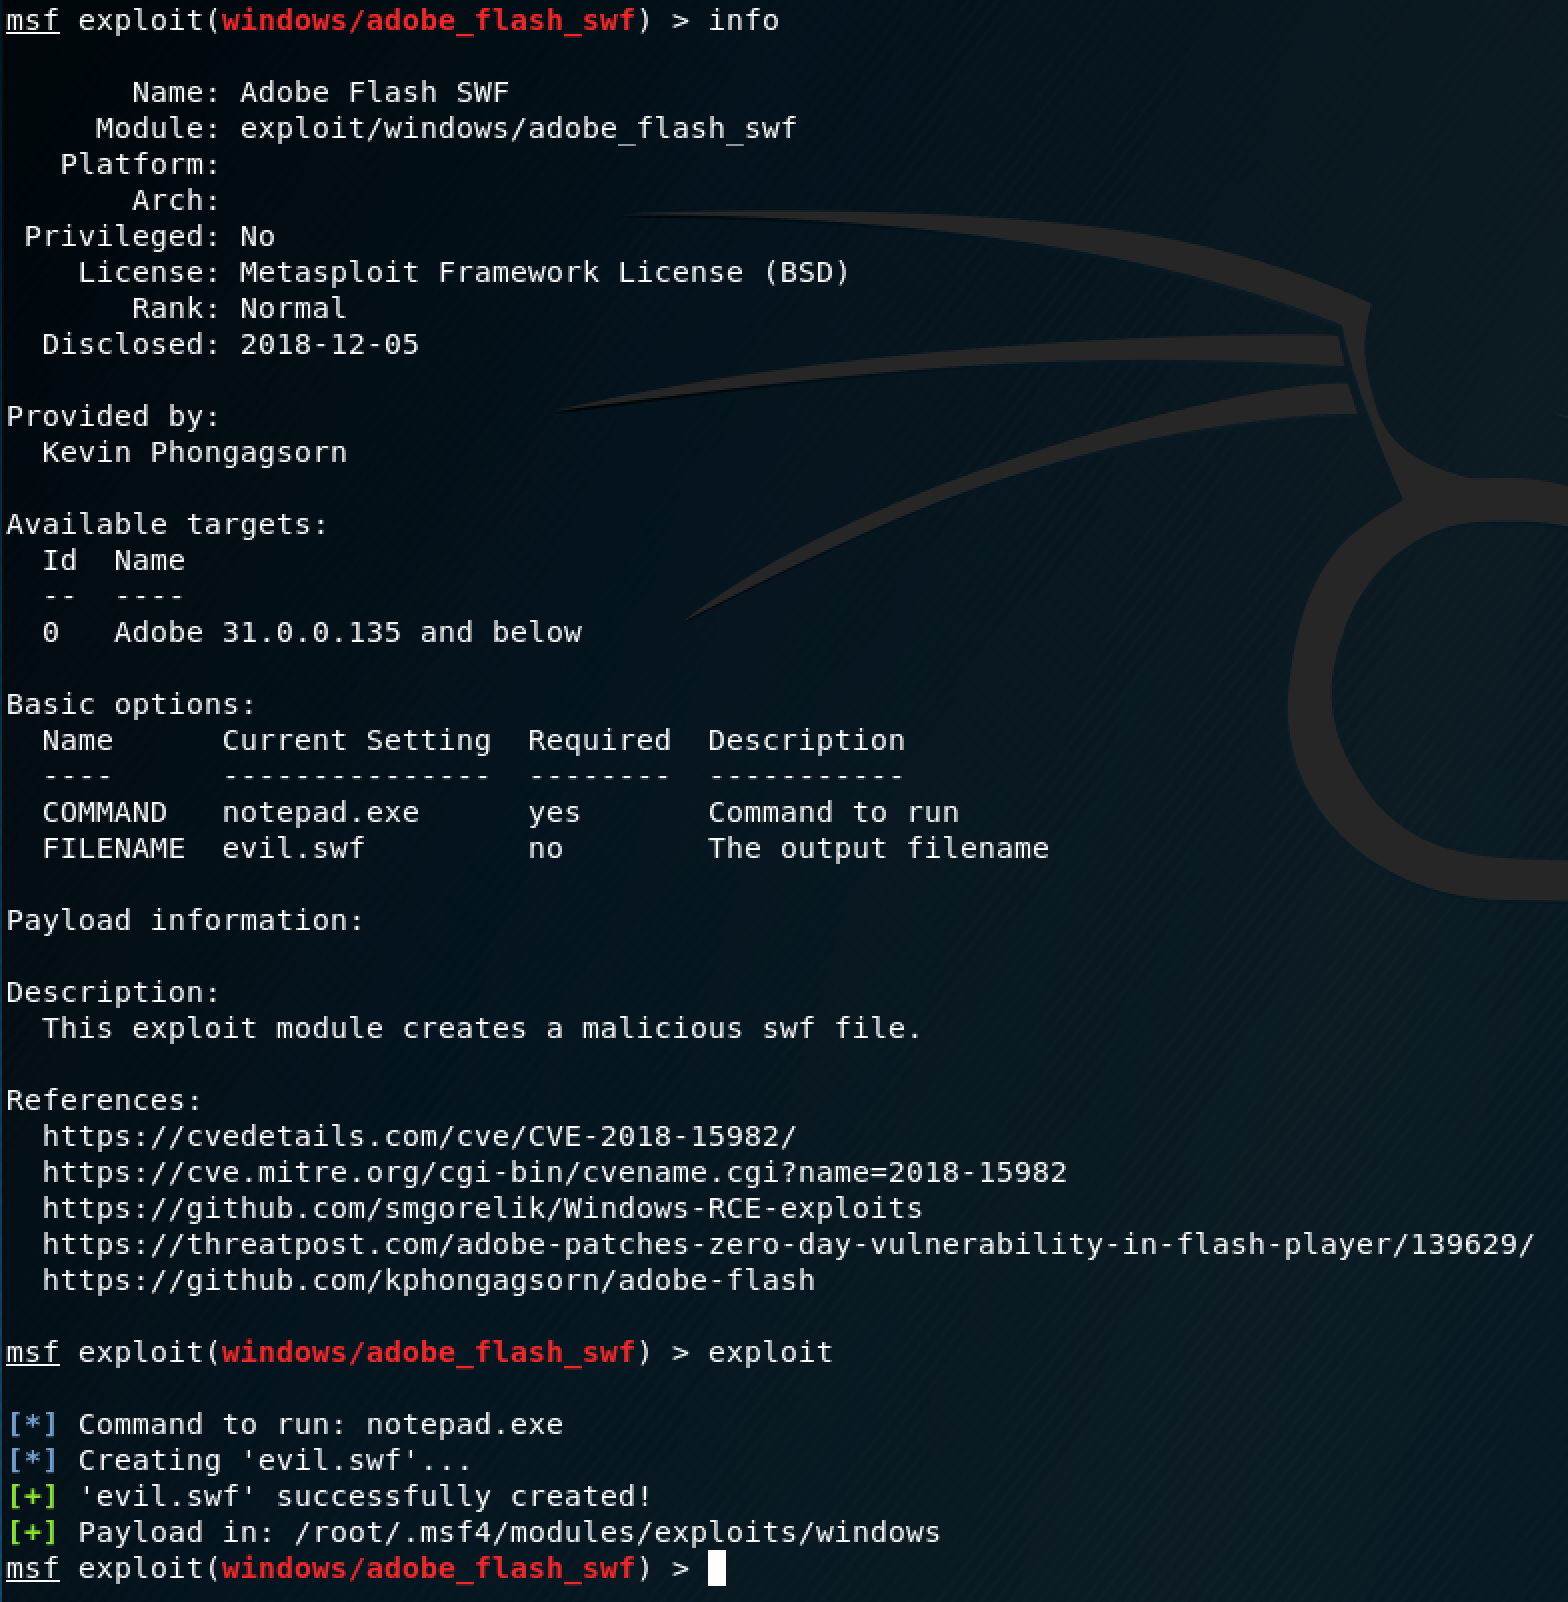
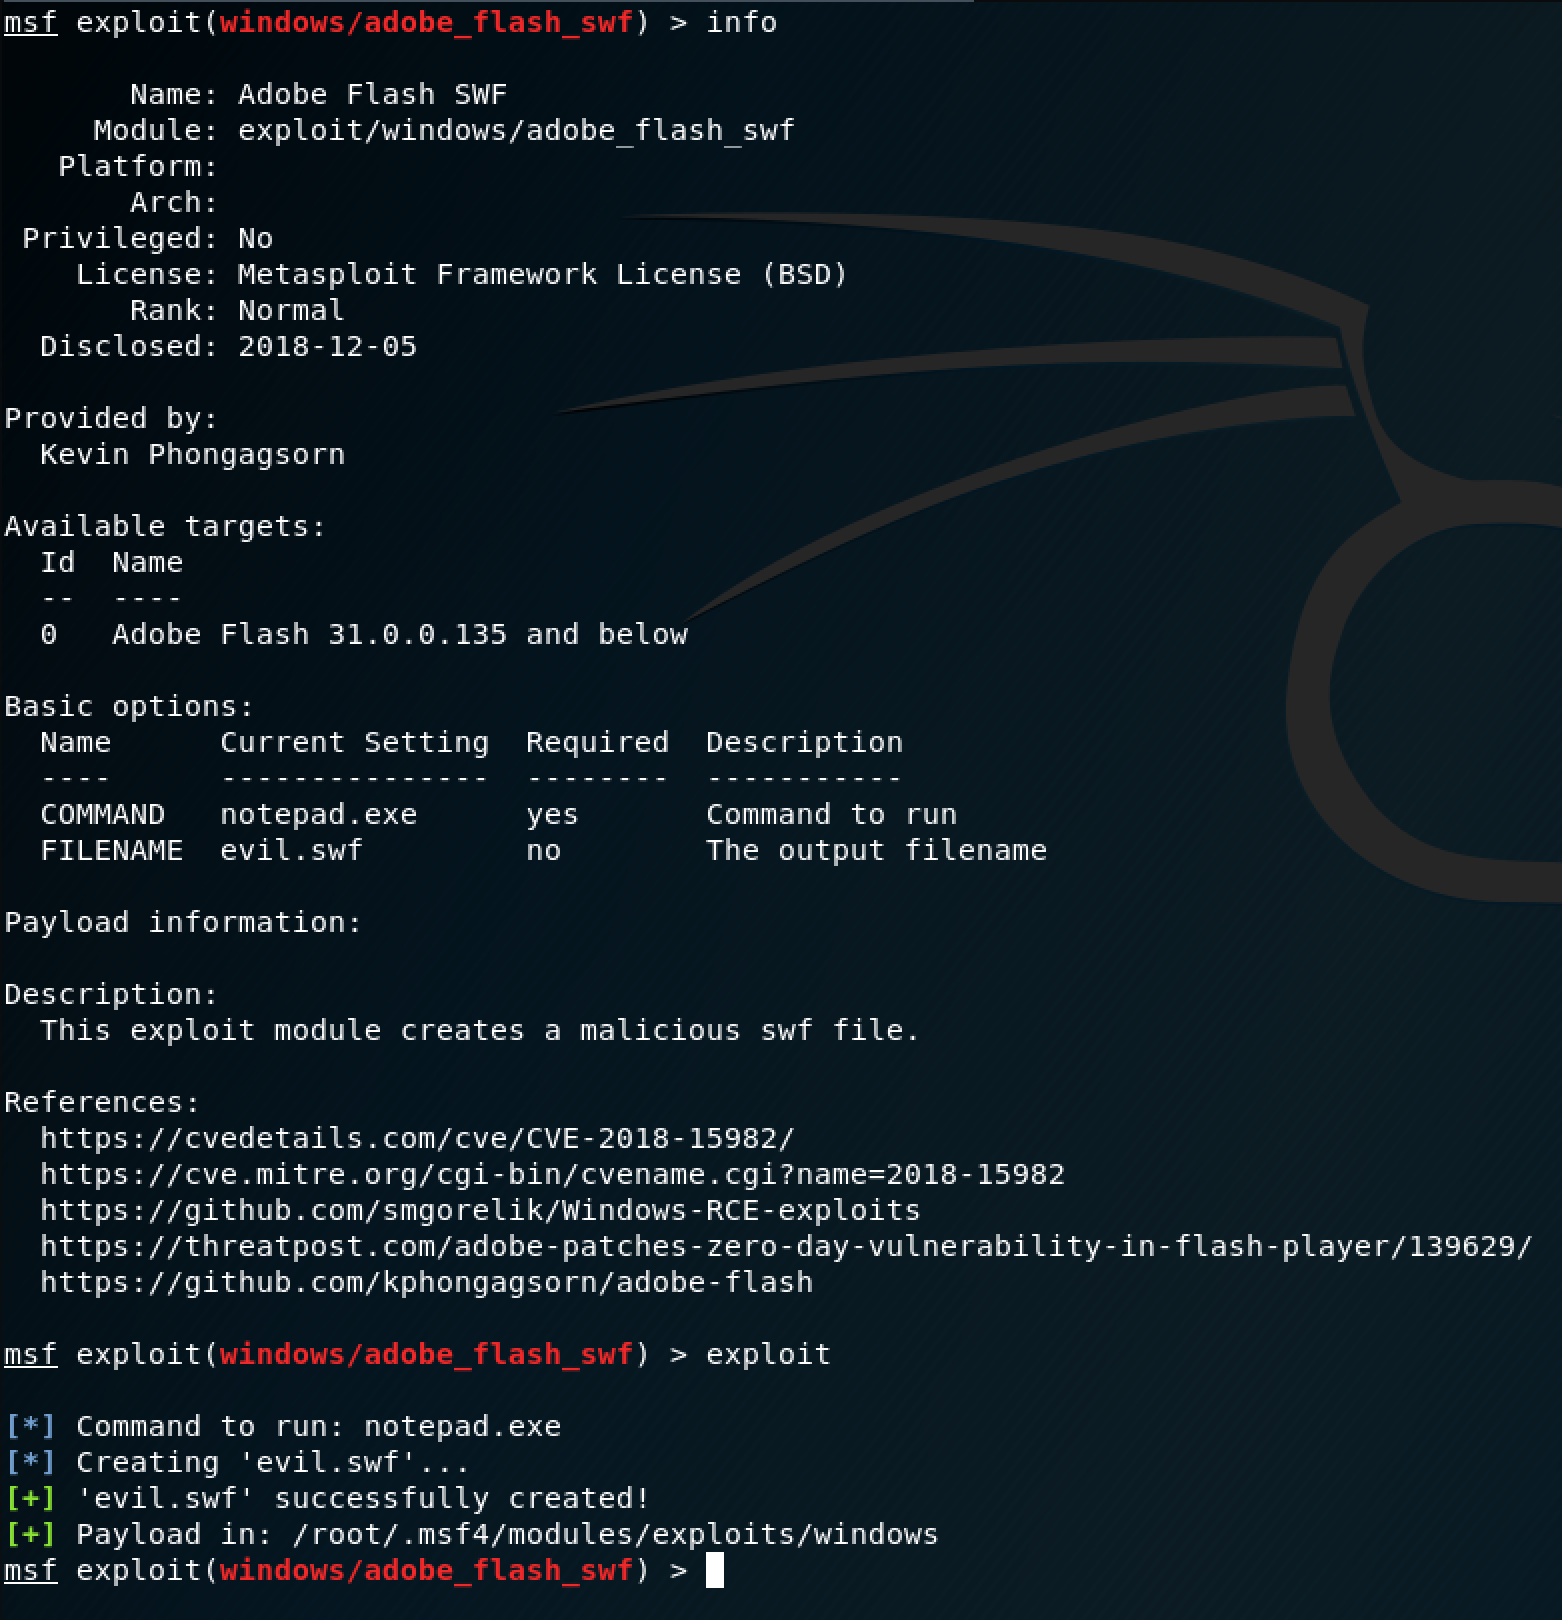
updated script and screenshots

diff --git a/metasploit_module/adobe_flash_swf.rb b/metasploit_module/adobe_flash_swf.rb
@@ -28,7 +28,7 @@ class MetasploitModule < Msf::Exploit::Remote
         'Targets'        =>
           [
             [
-              'Adobe 31.0.0.135 and below',
+              'Adobe Flash 31.0.0.135 and below',
               {
                 'Platform' => 'win',
                 'Ret'      => ''
